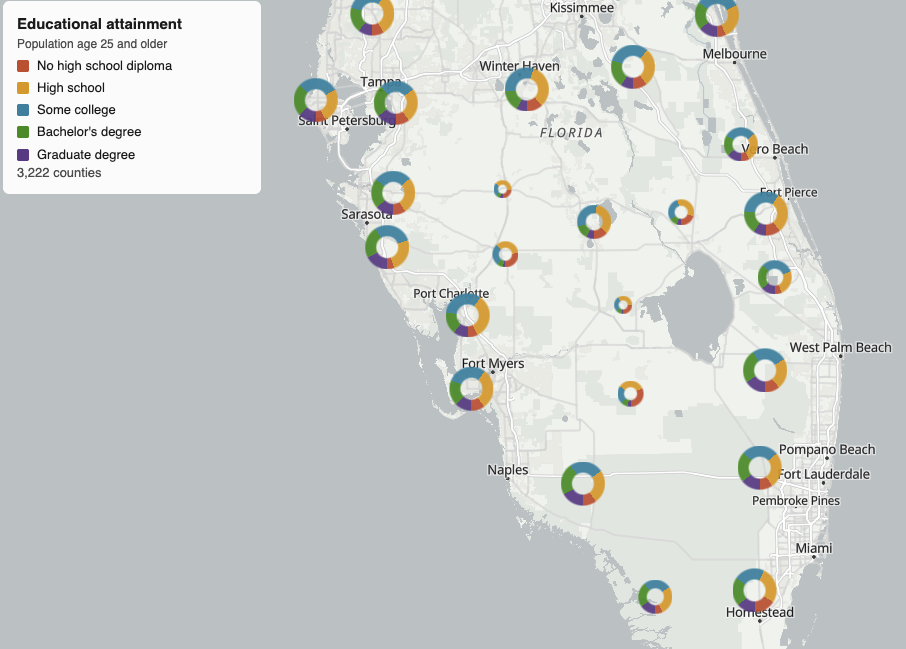
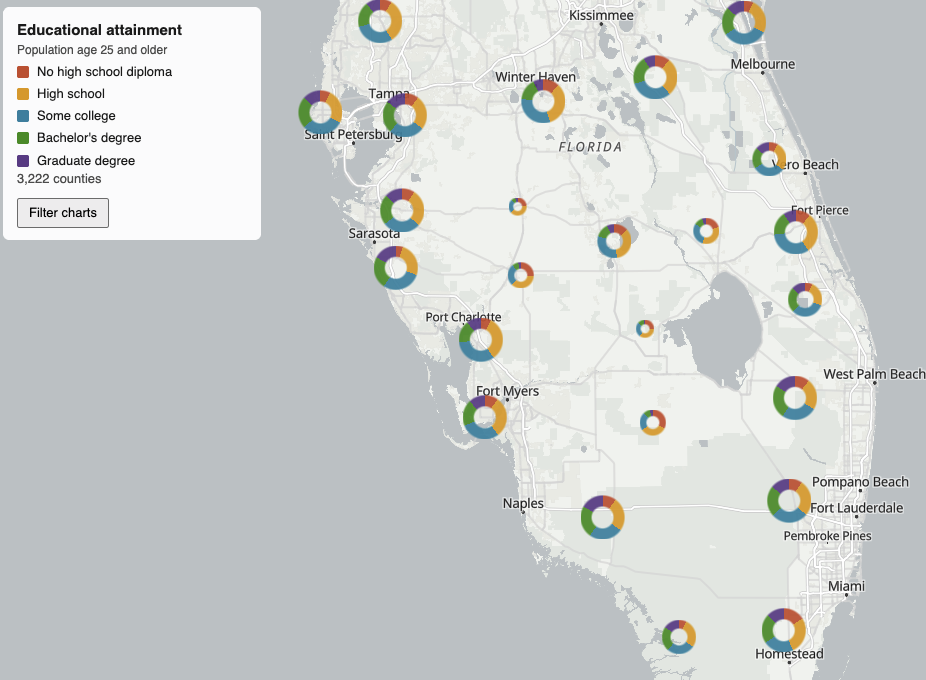
the pies are now shown clockwise from top instead of counterclockwise from bottom

diff --git a/demos/us-education/index.html b/demos/us-education/index.html
@@ -26,6 +26,29 @@
         #status { margin: 8px 0 0; color: #555; }
         .key { display: flex; align-items: center; gap: 8px; margin-top: 4px; }
         .swatch { width: 12px; height: 12px; border-radius: 2px; }
+        #open-filter { margin-top: 10px; padding: 4px 10px; font: inherit; cursor: pointer; }
+        #filter-dialog {
+            position: absolute;
+            top: 12px;
+            left: 260px;
+            margin: 0;
+            z-index: 2;
+            padding: 12px 14px;
+            border: none;
+            border-radius: 6px;
+            background: rgba(255, 255, 255, 0.97);
+            box-shadow: 0 2px 10px rgba(0, 0, 0, 0.2);
+            font: 13px/1.4 sans-serif;
+            color: #1c1c1c;
+        }
+        #filter-dialog h2 { margin: 0 0 2px; font-size: 15px; }
+        #filter-dialog .hint { margin: 0 0 8px; color: #555; font-size: 12px; }
+        #filter-dialog table { border-collapse: collapse; }
+        #filter-dialog th, #filter-dialog td { padding: 3px 6px; text-align: left; }
+        #filter-dialog th { font-weight: 600; color: #555; font-size: 12px; }
+        #filter-dialog select { font: inherit; }
+        #filter-dialog .actions { display: flex; justify-content: flex-end; gap: 8px; margin-top: 10px; }
+        #filter-dialog .actions button { padding: 4px 10px; font: inherit; cursor: pointer; }
     </style>
     <script type="importmap">
     {
@@ -49,10 +72,47 @@
         <div class="key"><span class="swatch" style="background:#5c8f3a"></span>Bachelor's degree</div>
         <div class="key"><span class="swatch" style="background:#5b4d8a"></span>Graduate degree</div>
         <p id="status">Loading charts…</p>
+        <button type="button" id="open-filter">Filter charts</button>
     </aside>
+    <dialog id="filter-dialog">
+        <h2>Filter charts</h2>
+        <p class="hint">Checked rows must all pass for a county to be drawn.</p>
+        <table>
+            <thead>
+                <tr><th>Apply</th><th>Attribute</th><th>Operator</th><th>Value</th></tr>
+            </thead>
+            <tbody id="filter-rows"></tbody>
+        </table>
+        <div class="actions">
+            <button type="button" id="clear-filter">Clear</button>
+            <button type="button" id="close-filter">Close</button>
+        </div>
+    </dialog>
     <script src="https://cdn.jsdelivr.net/npm/maplibre-gl@5/dist/maplibre-gl.js"></script>
     <script type="module">
-        import {PieChartLayer} from 'https://cdn.jsdelivr.net/npm/maplibre-gl-pie-charts@0.1.1/dist/index.mjs';
+        import {PieChartLayer} from 'https://cdn.jsdelivr.net/npm/maplibre-gl-pie-charts/dist/index.mjs';
+
+        const SLICES = [
+            {name: 'below_hs', color: '#c4533a', label: 'No high school diploma'},
+            {name: 'high_school', color: '#e09a3e', label: 'High school'},
+            {name: 'some_college', color: '#3d8ea6', label: 'Some college'},
+            {name: 'bachelors', color: '#5c8f3a', label: "Bachelor's degree"},
+            {name: 'graduate', color: '#5b4d8a', label: 'Graduate degree'},
+        ];
+        const STEPS = [
+            [8000, 6],
+            [20000, 9],
+            [50000, 13],
+            [150000, 17],
+        ];
+        const FALLBACK = 22;
+        const OPERATORS = ['>', '>=', '==', '<', '<='];
+        const SHARE_OPTIONS = Array.from({length: 21}, (_, i) => i * 5);
+        const STEP_OPTIONS = Array.from({length: STEPS.length + 1}, (_, i) => i);
+        const INITIAL_ROWS = [
+            ...SLICES.map(() => ({enabled: false, op: '>', value: 30})),
+            {enabled: false, op: '>=', value: 2},
+        ];
 
         const status = document.getElementById('status');
         const style = await fetch('https://tiles.openfreemap.org/styles/positron').then((response) => {
@@ -72,20 +132,97 @@
         const pies = new PieChartLayer({
             id: 'education',
             url: './tl_2025_us_county_points.parquet',
-            slices: ['below_hs', 'high_school', 'some_college', 'bachelors', 'graduate'],
-            colors: ['#c4533a', '#e09a3e', '#3d8ea6', '#5c8f3a', '#5b4d8a'],
-            radius: {
-                steps: [
-                    [8000, 6],
-                    [20000, 9],
-                    [50000, 13],
-                    [150000, 17],
-                ],
-                fallback: 22,
-            },
+            slices: SLICES.map((slice) => slice.name),
+            colors: SLICES.map((slice) => slice.color),
+            radius: {steps: STEPS, fallback: FALLBACK},
             opacity: 0.92,
             hole: 0.5,
         });
+
+        const dialog = document.getElementById('filter-dialog');
+        const rowsBody = document.getElementById('filter-rows');
+        let rows = INITIAL_ROWS.map((row) => ({...row}));
+        renderRows();
+
+        document.getElementById('open-filter').addEventListener('click', () => dialog.show());
+        document.getElementById('close-filter').addEventListener('click', () => dialog.close());
+        document.getElementById('clear-filter').addEventListener('click', () => {
+            rows = INITIAL_ROWS.map((row) => ({...row}));
+            renderRows();
+            pies.setFilter(null);
+        });
+
+        function stepLabel(index) {
+            const format = (value) => value.toLocaleString();
+            if (index === 0) return `0: ≤ ${format(STEPS[0][0])}`;
+            if (index === STEPS.length) return `${index}: > ${format(STEPS[index - 1][0])}`;
+            return `${index}: ${format(STEPS[index - 1][0])}–${format(STEPS[index][0])}`;
+        }
+
+        function filterFromRows() {
+            const conditions = [];
+            rows.forEach((row, index) => {
+                if (!row.enabled) return;
+                if (index < SLICES.length) {
+                    conditions.push([row.op, SLICES[index].name, row.value / 100]);
+                } else {
+                    conditions.push([row.op, '$step', row.value]);
+                }
+            });
+            return conditions.length === 0 ? null : ['all', ...conditions];
+        }
+
+        function updateRow(index, change) {
+            rows[index] = {...rows[index], ...change};
+            pies.setFilter(filterFromRows());
+        }
+
+        function select(label, options, value, onChange) {
+            const element = document.createElement('select');
+            element.setAttribute('aria-label', label);
+            for (const option of options) {
+                element.add(new Option(option.text, option.value));
+            }
+            element.value = String(value);
+            element.addEventListener('change', () => onChange(element.value));
+            return element;
+        }
+
+        function renderRows() {
+            rowsBody.replaceChildren(...rows.map((row, index) => {
+                const isStep = index === SLICES.length;
+                const label = isStep ? 'Total population (size step)' : `${SLICES[index].label} share`;
+
+                const checkbox = document.createElement('input');
+                checkbox.type = 'checkbox';
+                checkbox.checked = row.enabled;
+                checkbox.setAttribute('aria-label', `Apply ${label} filter`);
+                checkbox.addEventListener('change', () => updateRow(index, {enabled: checkbox.checked}));
+
+                const operator = select(
+                    `${label} operator`,
+                    OPERATORS.map((op) => ({text: op, value: op})),
+                    row.op,
+                    (op) => updateRow(index, {op}),
+                );
+                const value = select(
+                    `${label} value`,
+                    isStep
+                        ? STEP_OPTIONS.map((step) => ({text: stepLabel(step), value: step}))
+                        : SHARE_OPTIONS.map((share) => ({text: `${share}%`, value: share})),
+                    row.value,
+                    (selected) => updateRow(index, {value: Number(selected)}),
+                );
+
+                const tr = document.createElement('tr');
+                for (const content of [checkbox, label, operator, value]) {
+                    const td = document.createElement('td');
+                    td.append(content);
+                    tr.append(td);
+                }
+                return tr;
+            }));
+        }
 
         function showCountyBoundaries(style) {
             const boundaries = style.layers.find((layer) => layer.id === 'boundary_3');

diff --git a/src/shaders.js b/src/shaders.js
@@ -15,7 +15,8 @@
 // -2/drawingBufferHeight). NDC x runs from -1 to 1 across the buffer. NDC y
 // runs from -1 at the bottom to +1 at the top, while canvas y points down, so
 // the y term is negative and positive extrude y moves toward the bottom of
-// the screen. Angle 0 is along extrude +y and increases clockwise in that space.
+// the screen. The fragment shader therefore measures the angle from extrude
+// -y, so slice 0 starts at the top of the screen and slices run clockwise.
 //
 // gl_Position is clip space, not NDC. w is the fourth component of that vec4,
 // and the GPU displays (x/w, y/w, z/w). Multiplying clip_offset by center.w
@@ -44,7 +45,7 @@ uniform int u_filter_operand[18];
 uniform int u_filter_op[18];
 uniform float u_filter_value[18];
 
-in vec2 a_extrude;  // quad corner in -1..1, shared by every pie. +y is up
+in vec2 a_extrude;  // quad corner in -1..1, shared by every pie. +y is down on screen
 in vec2 a_mercator; // pie center in mercator 0..1
 in float a_step;    // radius step index, a whole number
 in vec4 a_shares0;  // cumulative slice shares 0..3, each in 0..1
@@ -152,7 +153,8 @@ void main() {
     shares[6] = v_shares1.z;
     shares[7] = v_shares1.w;
 
-    float angle = atan(v_extrude.x, v_extrude.y);
+    // 0 at the top of the screen, increasing clockwise.
+    float angle = atan(v_extrude.x, -v_extrude.y);
     if (angle < 0.0) angle += TAU;
     float t = angle / TAU;
 

diff --git a/CHANGELOG.md b/CHANGELOG.md
@@ -1,5 +1,11 @@
 # Changelog
 
+## 0.2.1
+
+### Fixed
+
+- Slices now start at the top of the chart (12 o'clock) and run clockwise in `slices` order. In previous versions, they started at the bottom and ran counterclockwise, because the shader measured the angle before the screen's y axis was flipped.
+
 ## 0.2.0
 
 ### Added
